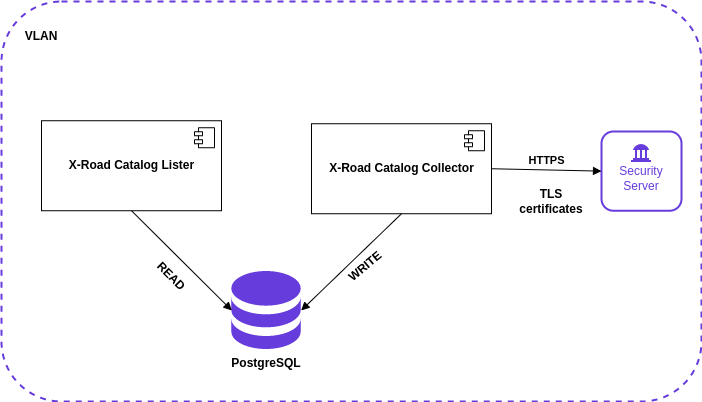
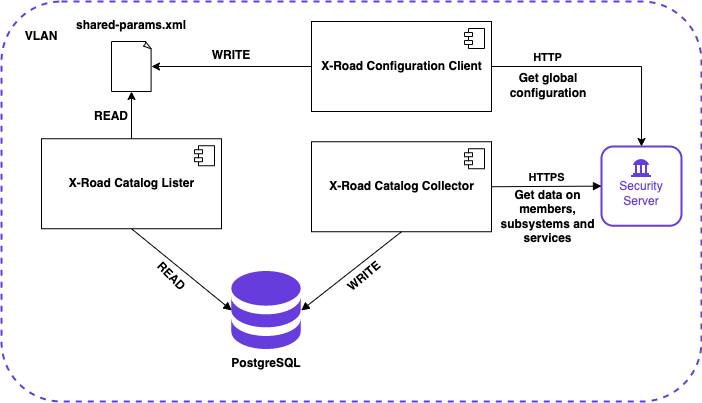
Update installation guide
- Add instructions for installing xroad-confclient.
- Update deployment diagram.

diff --git a/doc/xroad_catalog_installation_guide.md b/doc/xroad_catalog_installation_guide.md
@@ -21,6 +21,7 @@ Doc. ID: IG-XRDCAT
     * [2.1 Prerequisites to Installation](#21-prerequisites-to-installation)
     * [2.2 Deployment Diagram](#22-deployment-diagram)
     * [2.3 Installation](#23-installation)
+    * [2.3.1 Install X-Road Configuration Client](#231-install-x-road-configuration-client)
     * [2.4 Initial Configuration](#24-initial-configuration)
     * [2.5 SSL (optional)](#25-ssl-optional)
     * [2.6 Post-Installation Checks](#26-post-installation-checks)
@@ -63,6 +64,10 @@ computer networks, and the X-Road principles.
 Running X-Road Catalog using available RPM packages requires Red Hat Enterprise Linux (RHEL)
 version 8 on a x86-64 platform. The software can be installed both on physical and virtualized hardware.
 
+The installation requires that the X-Road Catalog Lister is installed on the same host with the X-Road 
+`xroad-confclient` module. Also, the X-Road Catalog Lister must be able to access the 
+`/etc/xroad/globalconf/<INSTANCE_IDENTIFIER>/shared-params.xml` configuration file.
+
 ## 2.2 Deployment Diagram
 
 ![X-Road Catalog production](../img/xroad_catalog_production.png)
@@ -83,6 +88,49 @@ rpm -i install xroad-catalog-lister xroad-catalog-collector
 ```
 
 Instructions on how to build the RPM packages using Docker can be found [here](../BUILD.md).
+
+## 2.3.1 Install X-Road Configuration Client
+
+If the X-Road Catalog Lister is not installed on the same host with a Security Server, the X-Road Configuration Client
+(`xroad-confclient`) module must be installed manually.
+
+Add X-Road package repository and Extra Packages for Enterprise Linux (EPEL) repository:
+
+```bash
+sudo yum install https://dl.fedoraproject.org/pub/epel/epel-release-latest-8.noarch.rpm
+sudo yum-config-manager --add-repo https://artifactory.niis.org/xroad-release-rpm/rhel/8/current
+```
+
+The following packages are fetched from EPEL: `crudini`, and `rlwrap`.
+
+Add the X-Road repository’s signing key to the list of trusted keys:
+
+```bash
+sudo rpm --import https://artifactory.niis.org/api/gpg/key/public
+```
+
+Install the `xroad-confclient` module:
+
+```bash
+sudo yum install xroad-confclient
+```
+
+Copy the X-Road ecosystem configuration anchor to `/etc/xroad/configuration-anchor.xml`. Make sure that the `xroad` user 
+is the owner of the file with sufficient permissions:
+
+```bash
+sudo chown xroad:xroad /etc/xroad/configuration-anchor.xml
+sudo chmod 660 /etc/xroad/configuration-anchor.xml
+```
+
+Make sure that the `xroad-confclient` service is enabled on boot and start the service:
+
+```bash
+sudo systemctl enable xroad-confclient
+sudo systemctl start xroad-confclient
+```
+
+The application log of the `xroad-confclient` module is available in `/var/log/xroad/configuration_client.log`.
 
 ## 2.4 Initial Configuration
 
@@ -109,28 +157,29 @@ xroad-catalog.fetch-time-before-hour=<XROAD_CATALOG_COLLECTOR_FETCH_INTERVAL_BEF
 xroad-catalog.collector-interval-min=<XROAD_CATALOG_COLLECTOR_FETCH_INTERVAL_MINUTES>
 ```
 
-`ERROR_LOGS_FLUSH_IN_DB_TIME_INTERVAL_AFTER` is a parameter for setting the start of time interval during which the error logs in the db will be deleted
-when those exceed the amount in days set by `ERROR_LOGS_KEPT_IN_DB_LENGTH_IN_DAYS` parameter, e.g. value `18` means starting from `18:00`.
+| Parameter | Description                                                                                                                                                                                                                                         |
+|-----------|-----------------------------------------------------------------------------------------------------------------------------------------------------------------------------------------------------------------------------------------------------|
+| `ERROR_LOGS_FLUSH_IN_DB_TIME_INTERVAL_AFTER` | A parameter for setting the start of time interval during which the error logs in the db will be deleted when those exceed the amount in days set by `ERROR_LOGS_KEPT_IN_DB_LENGTH_IN_DAYS` parameter, e.g. value `18` means starting from `18:00`. |
+| `ERROR_LOGS_FLUSH_IN_DB_TIME_INTERVAL_AFTER` | A parameter for setting the start of time interval during which the error logs in the db will be deleted when those exceed the amount in days set by `ERROR_LOGS_KEPT_IN_DB_LENGTH_IN_DAYS` parameter, e.g. value `18` means starting from `18:00`. |
+|`ERROR_LOGS_FLUSH_IN_DB_TIME_INTERVAL_BEFORE` | A parameter for setting the end of time interval during which the error logs in the db will be deleted when those exceed the amount in days set by `ERROR_LOGS_KEPT_IN_DB_LENGTH_IN_DAYS` parameter, e.g. value  `23` means ending at `23:00`. |
+| `ERROR_LOGS_KEPT_IN_DB_LENGTH_IN_DAYS` | A parameter for setting the amount in days for how long the errors logs should be kept in the db, e.g. value `90` means `for 90 days`. |
+| `XROAD_CATALOG_COLLECTOR_FETCH_UNLIMITED` | A parameter for setting whether the X-Road Catalog Collector should try to fetch data from Security Server continuously during a day or only between certain hours, e.g. value `true` means `continously`. |
+| `XROAD_CATALOG_COLLECTOR_FETCH_INTERVAL_AFTER` | A parameter for setting the start of time interval during which the X-Road Catalog Collector should try to fetch data from Security Server continuously (this parameter will be ignored if the parameter `XROAD_CATALOG_COLLECTOR_FETCH_UNLIMITED` is set to `true`), e.g. value `18` means starting from `18:00`. |
+| `XROAD_CATALOG_COLLECTOR_FETCH_INTERVAL_BEFORE` | A parameter for setting the end of time interval during which the X-Road Catalog Collector should try to fetch data from Security Server continuously (this parameter will be ignored if the parameter `XROAD_CATALOG_COLLECTOR_FETCH_UNLIMITED` is set to `true`), e.g. value `23` means ending at `23:00`. |
+| `XROAD_CATALOG_COLLECTOR_FETCH_INTERVAL_MINUTES` | A parameter for setting the amount of time in minutes after which the X-Road Catalog Collector should start re-fetching data from Security Server, e.g. value `60` means `every 60 minutes`. |
 
-`ERROR_LOGS_FLUSH_IN_DB_TIME_INTERVAL_BEFORE` is a parameter for setting the end of time interval during which the error logs in the db will be deleted
-when those exceed the amount in days set by `ERROR_LOGS_KEPT_IN_DB_LENGTH_IN_DAYS` parameter, e.g. value  `23` means ending at `23:00`.
+In addition, update the `xroad-catalog.shared-params-file` property value in `/etc/xroad/xroad-catalog/lister-production.properties`.
+The value must point to the `/etc/xroad/globalconf/<INSTANCE_IDENTIFIER>/shared-params.xml` configuration file:
 
-`ERROR_LOGS_KEPT_IN_DB_LENGTH_IN_DAYS` is a parameter for setting the amount in days for how long the errors logs should be kept in the db,
-e.g. value `90` means `for 90 days`.
+```properties
+xroad-catalog.shared-params-file=/etc/xroad/globalconf/<INSTANCE_IDENTIFIER>/shared-params.xml
+```
 
-`XROAD_CATALOG_COLLECTOR_FETCH_UNLIMITED` is a parameter for setting whether the X-Road Catalog Collector should try
-to fetch data from Security Server continuously during a day or only between certain hours, e.g. value `true` means `continously`.
+Grant the `xroad-catalog` user sufficient permissions to the `/etc/xroad/globalconf/` directory:
 
-`XROAD_CATALOG_COLLECTOR_FETCH_INTERVAL_AFTER` is a parameter for setting the start of time interval during which the X-Road Catalog Collector should try
-to fetch data from Security Server continuously (this parameter will be ignored if the parameter `XROAD_CATALOG_COLLECTOR_FETCH_UNLIMITED` is set
-to `true`), e.g. value `18` means starting from `18:00`.
-
-`XROAD_CATALOG_COLLECTOR_FETCH_INTERVAL_BEFORE` is a parameter for setting the end of time interval during which the X-Road Catalog Collector should try
-to fetch data from Security Server continuously (this parameter will be ignored if the parameter `XROAD_CATALOG_COLLECTOR_FETCH_UNLIMITED` is set
-to `true`), e.g. value `23` means ending at `23:00`.
-
-`XROAD_CATALOG_COLLECTOR_FETCH_INTERVAL_MINUTES` is a parameter for setting the amount of time in minutes after which the X-Road Catalog Collector
-should start re-fetching data from Security Server, e.g. value `60` means `every 60 minutes`.
+```bash
+sudo chown -R xroad:xroad-catalog /etc/xroad/globalconf/
+```
 
 Change also the database password in `/etc/xroad/xroad-catalog/catalogdb-production.properties`:
 
@@ -142,7 +191,7 @@ And in the DB:
 sudo -u postgres psql -U postgres -d postgres -c "alter user xroad_catalog with password 'password';"
 ```
 
-Make sure that the services are enabled on boot and restart services in order to make the changes to have effect.
+Make sure that the X-Road Catalog services are enabled on boot and restart services in order to make the changes to have effect:
 ```bash
 sudo systemctl enable xroad-catalog-lister
 sudo systemctl enable xroad-catalog-collector
